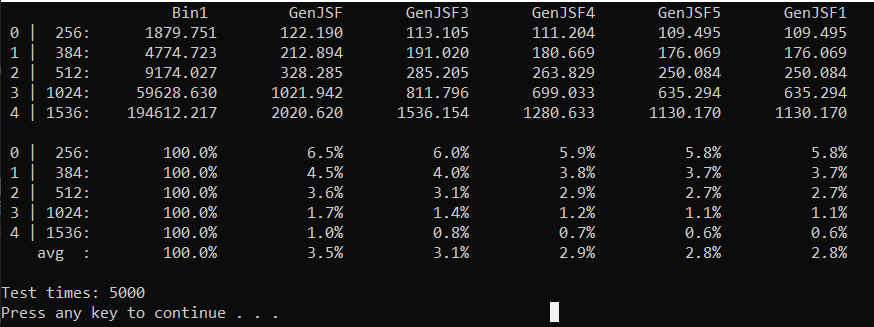
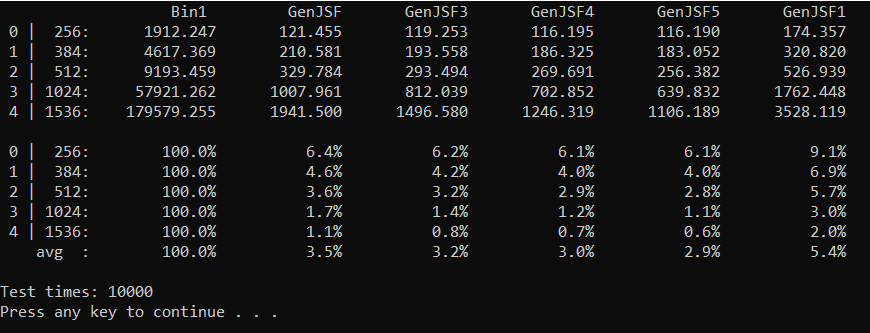
runtime genJSF/dJSF

diff --git a/BinModSexp/test_JSFs.cpp b/BinModSexp/test_JSFs.cpp
@@ -1,6 +1,6 @@
 #include "JSF.h"
 
-#define TESTJSFs 5000
+#define TESTJSFs 10000
 #define REPEATJSFs 10
 void compare_prepowmodJSFs(big P, csprng &Rng, Result &res)
 {
@@ -117,7 +117,7 @@ void compare_prepowmodJSFs(big P, csprng &Rng, Result &res)
 #define NUM_OF_P 5
 void printcompares_JSFs(Result res[NUM_OF_P + 1], int *m)
 {
-	const int lib = 4;
+	const int lib = 5;
 	res[NUM_OF_P].p[0] = 100;
 
 	for (int i = 0; i <= NUM_OF_P; i++) {
